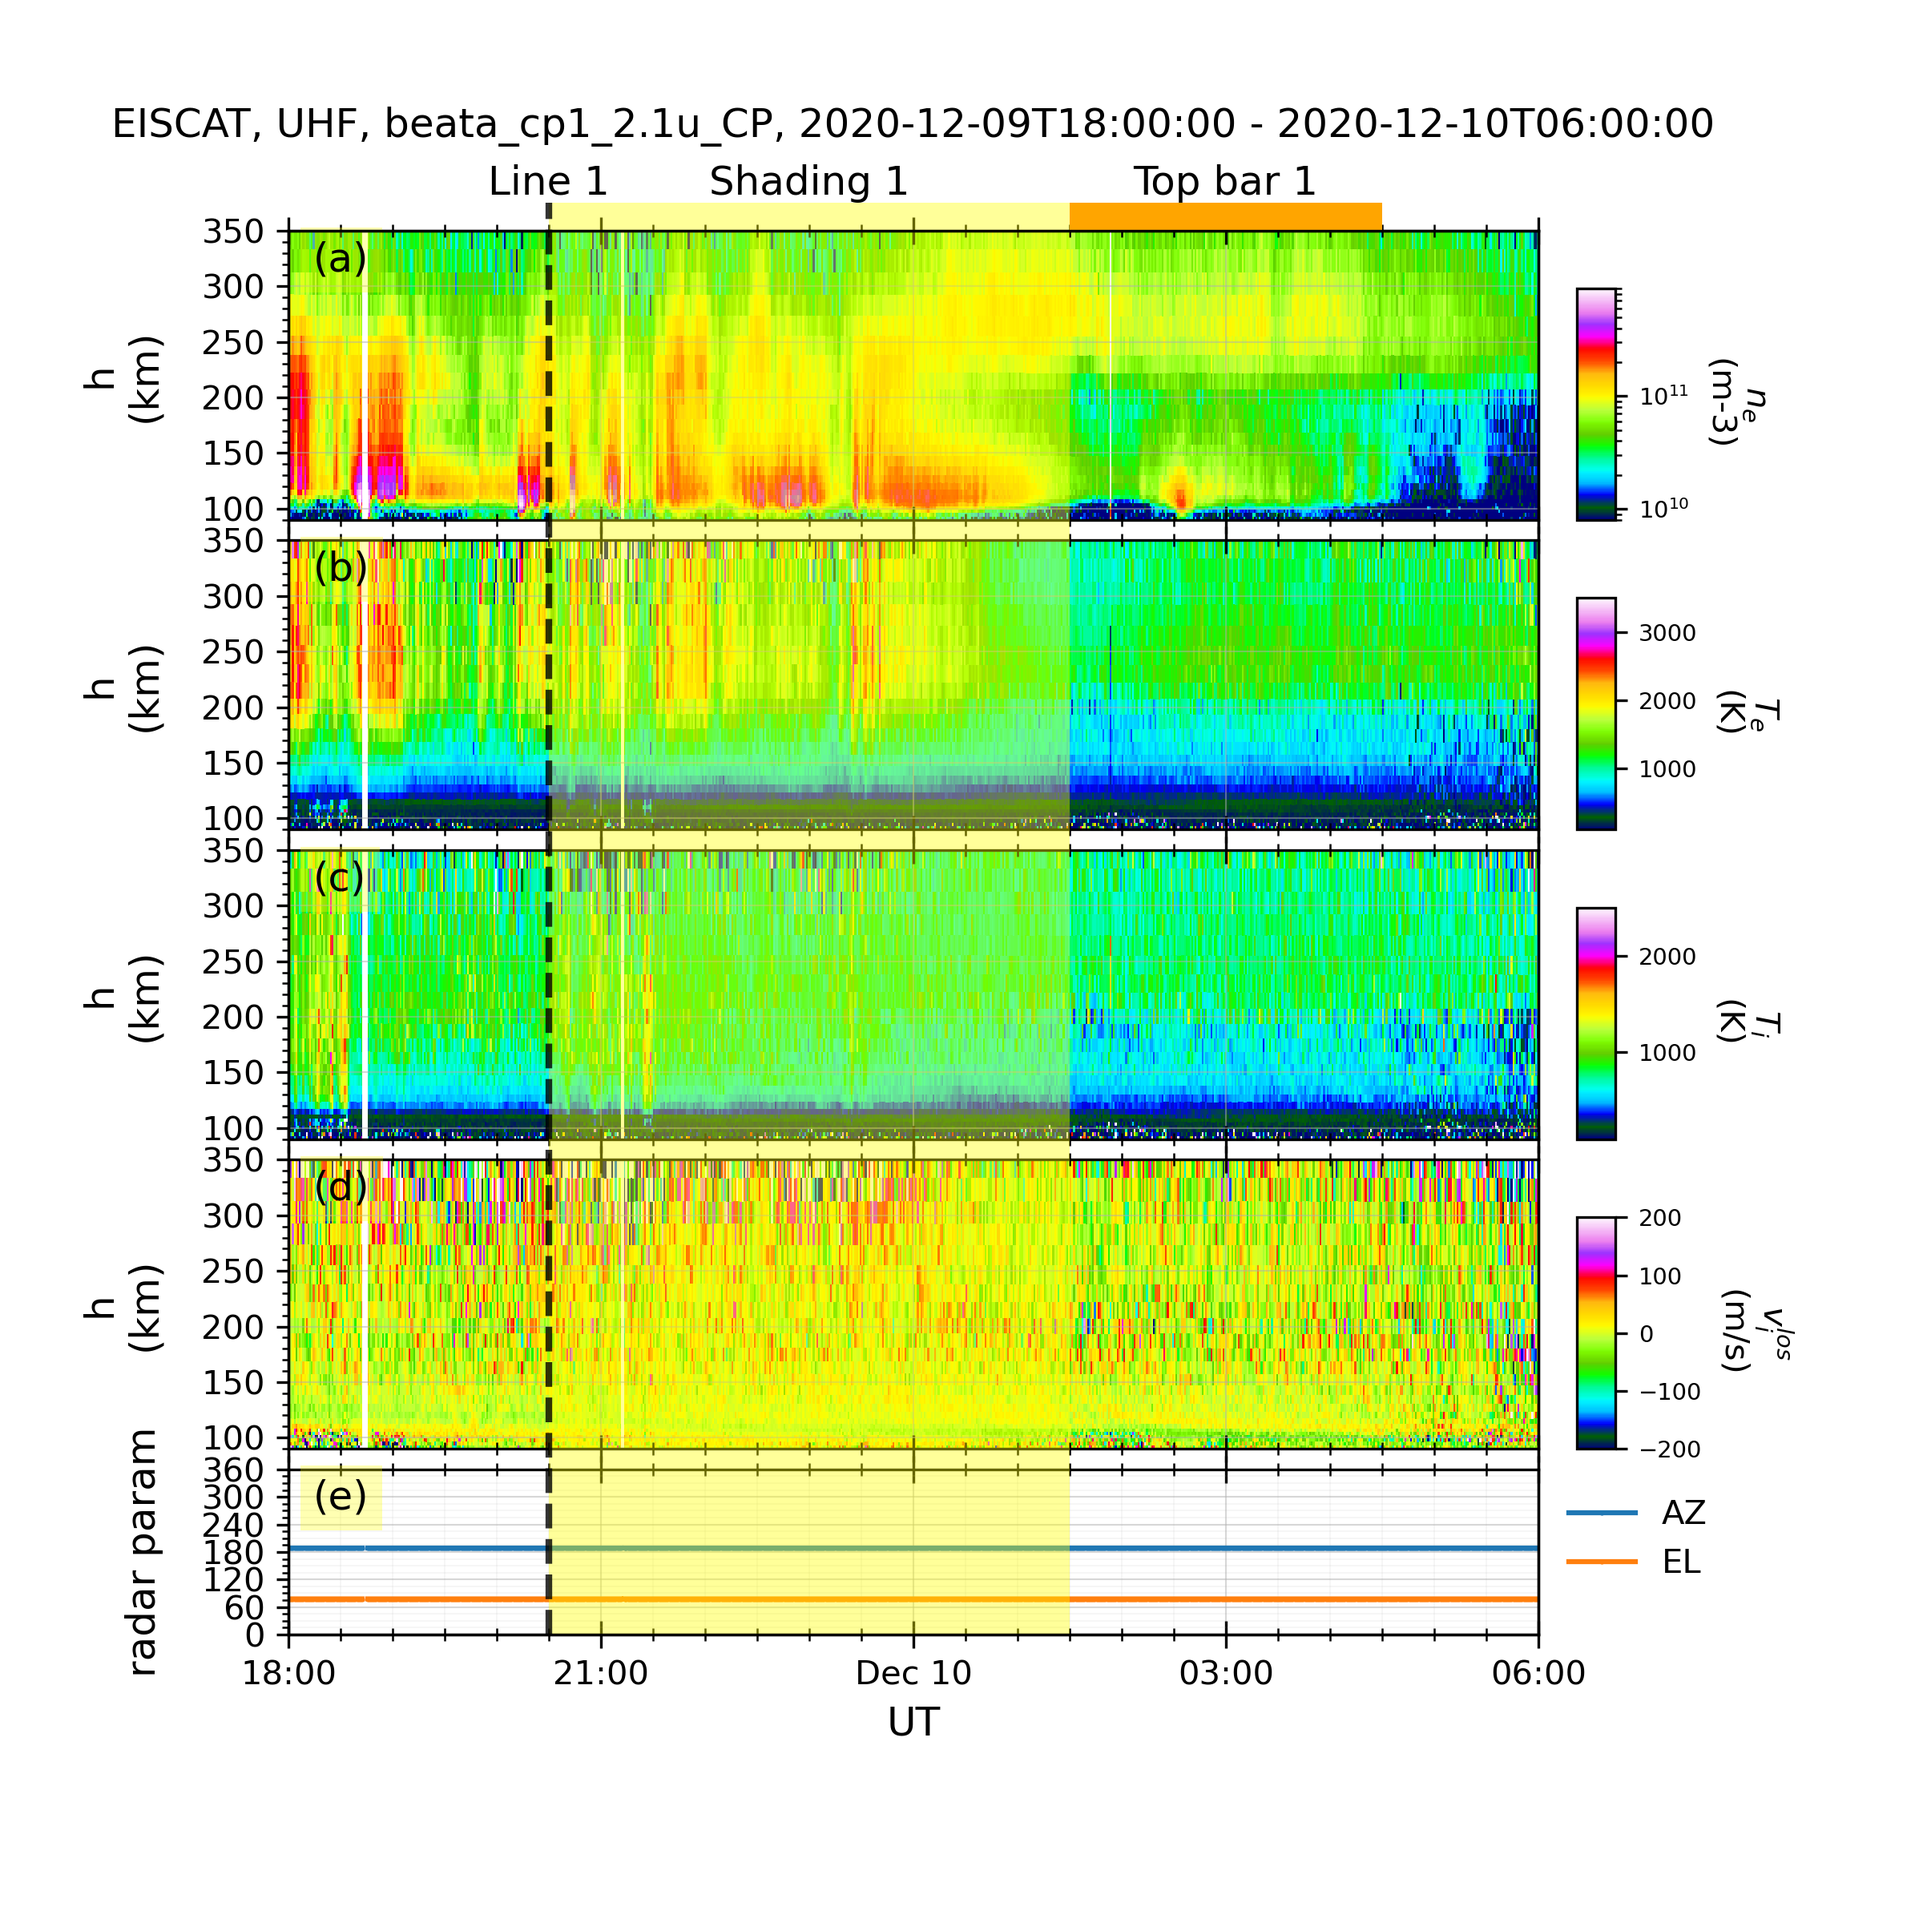
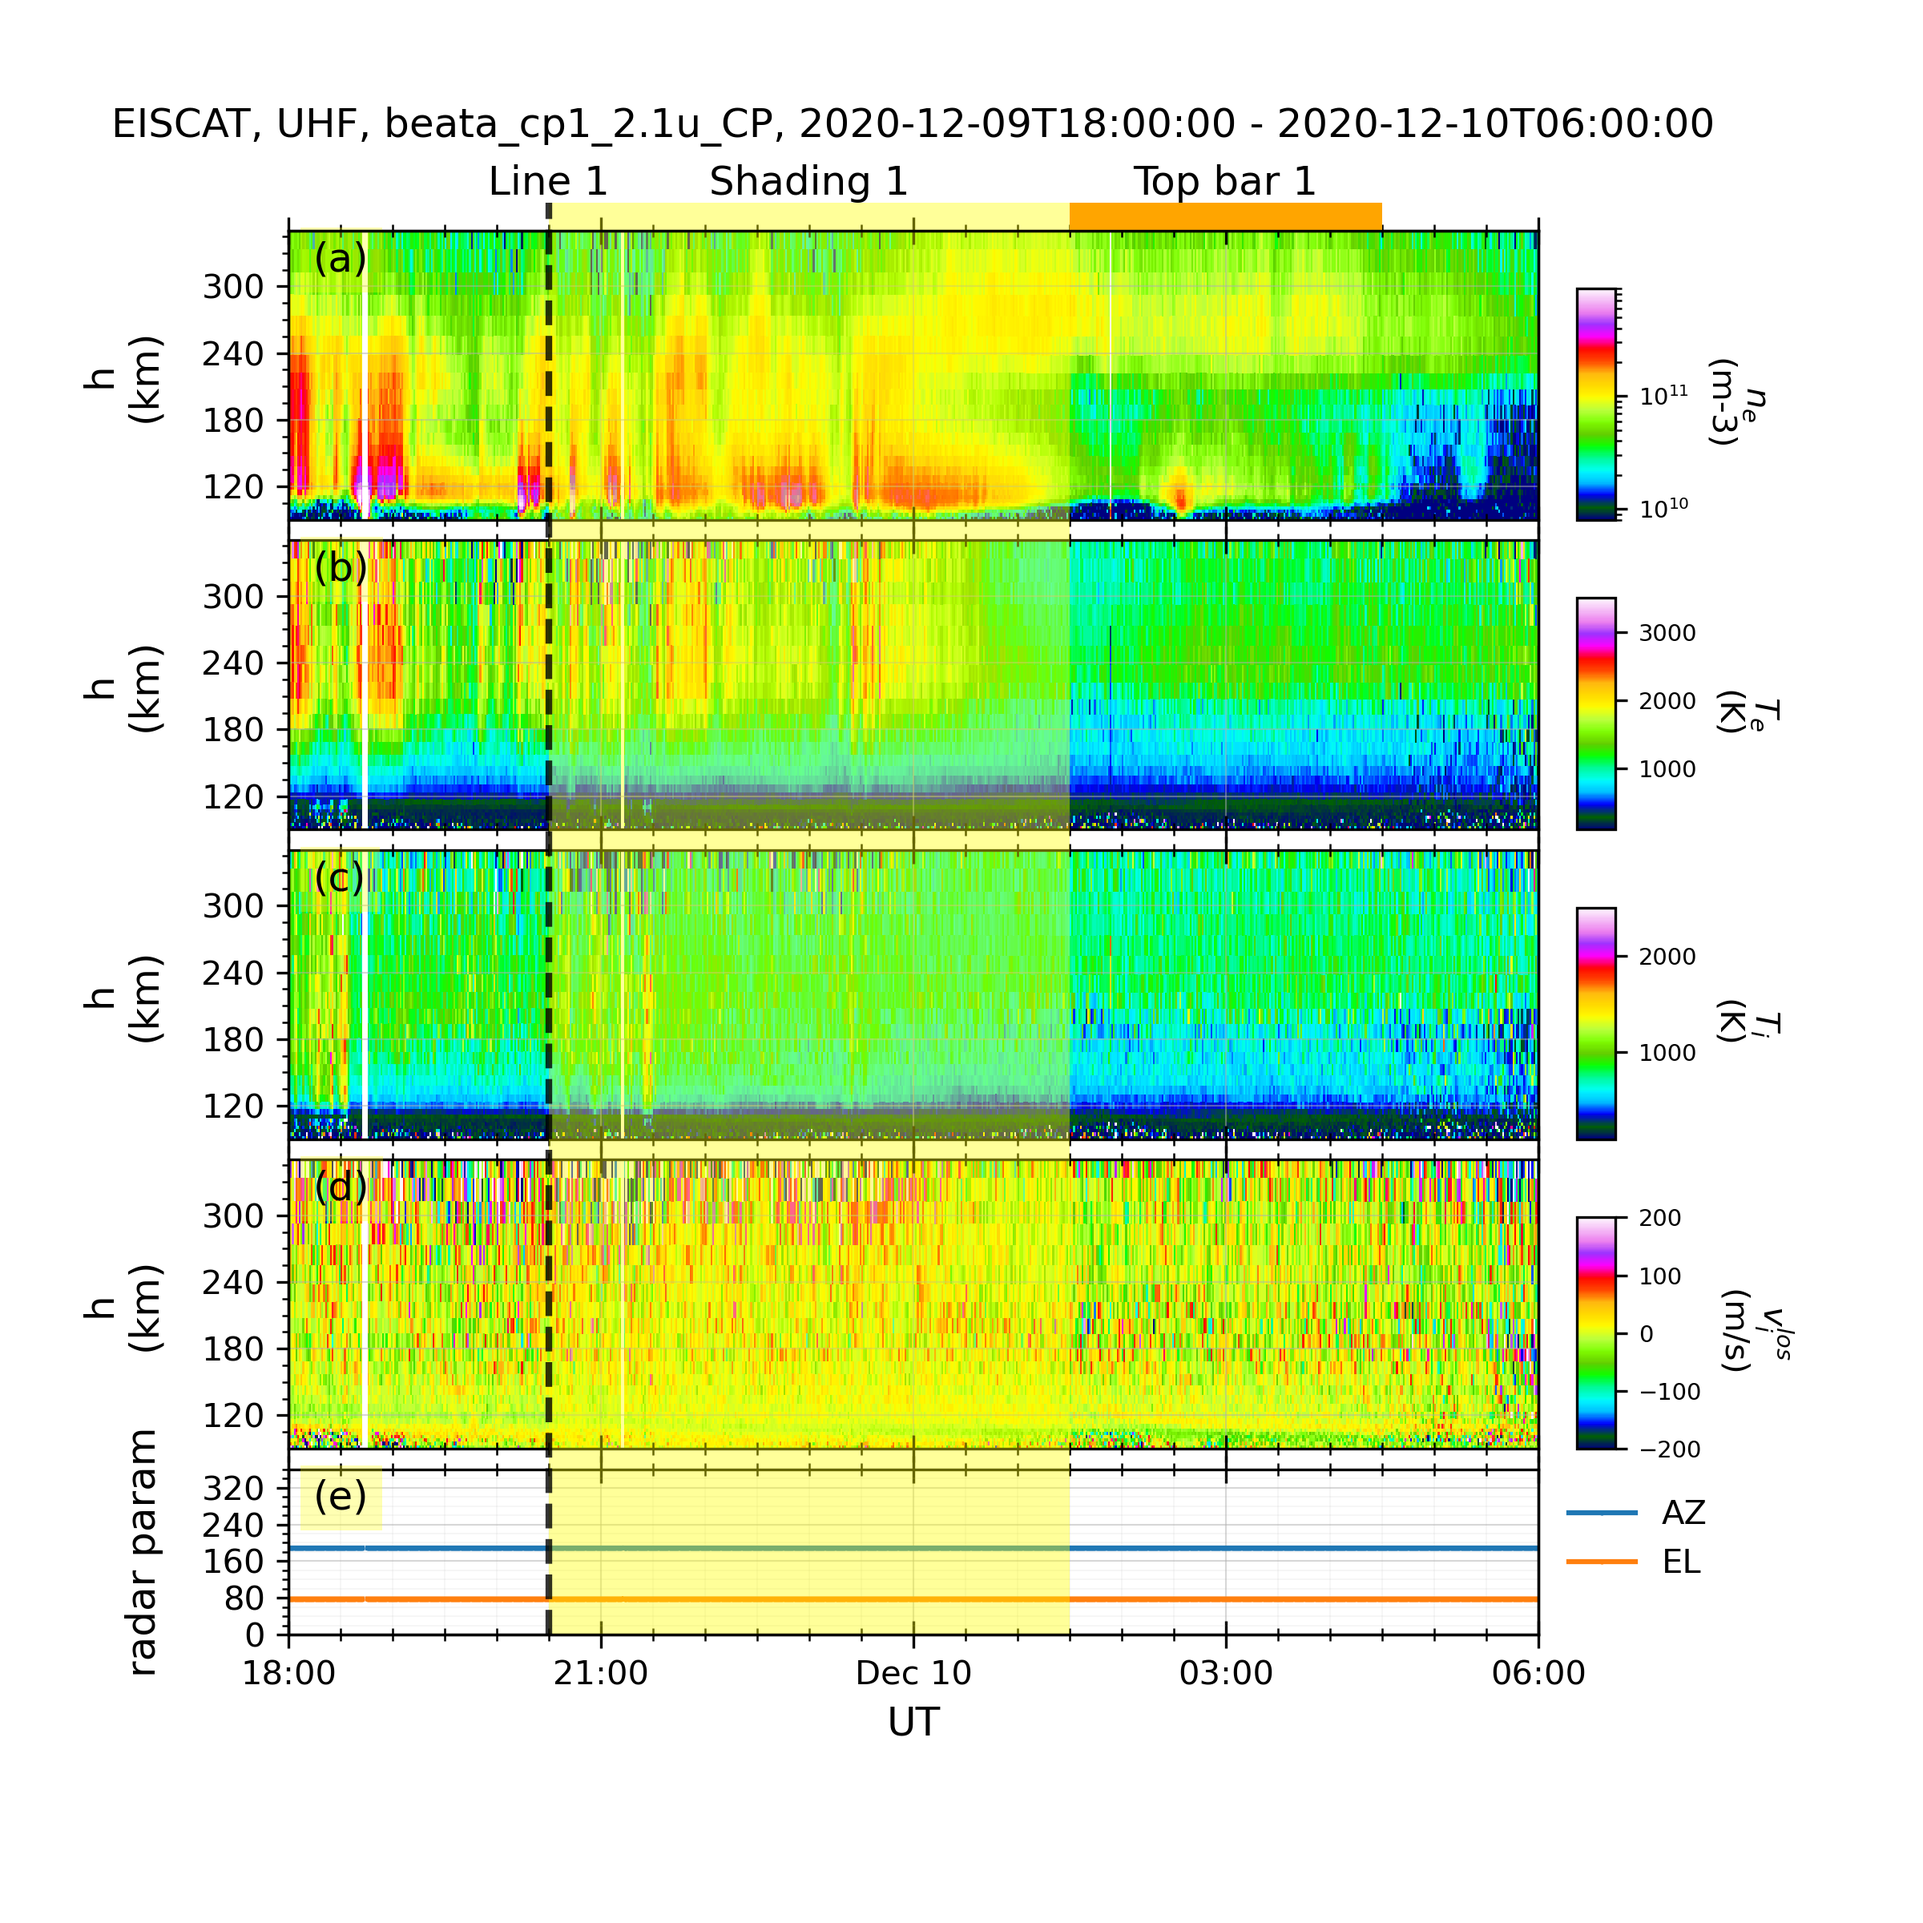
update for tsviewer's y axis tick locator

diff --git a/geospacelab/visualization/ts_viewer.py b/geospacelab/visualization/ts_viewer.py
@@ -19,9 +19,11 @@ import geospacelab.toolbox.utilities.pybasic as basic
 import geospacelab.visualization.mpl_toolbox.axis_ticks as ticktool
 
 
-# plt.style.use('ggplot')
-
-# plt.rcParams['font.family'] = 'serif' 
+# plt.style.use('seaborn-dark-palette')
+plt.style.use('fast')
+# plt.style.use('dark_background')    # nice for line plots
+# plt.style.use('bmh')
+# plt.rcParams['font.family'] = 'serif'
 plt.rcParams['font.serif'] = 'Ubuntu'
 plt.rcParams['font.monospace'] = 'Ubuntu Mono'
 plt.rcParams['font.size'] = 10
@@ -368,14 +370,18 @@ class TimeSeriesViewer(DataHub, dashboard.Dashboard):
             major_max = var_for_config.visual.axis[1].major_tick_max
             minor_max = var_for_config.visual.axis[1].minor_tick_max
             ax.yaxis.set_major_locator(mpl.ticker.MaxNLocator(major_max))
-            ax.yaxis.set_minor_locator(mpl.ticker.MaxNLocator(minor_max))
+            if minor_max is None:
+                ax.yaxis.set_minor_locator(mpl.ticker.AutoMinorLocator())
+            else:
+                ax.yaxis.set_minor_locator(mpl.ticker.MaxNLocator(minor_max))
+
         if yscale == 'log':
             locmin = mpl.ticker.LogLocator(base=10.0,
                                            subs=(0.1, 0.2, 0.3, 0.4, 0.5, 0.6, 0.7, 0.8, 0.9),
                                            numticks=12
                                            )
             ax.yaxis.set_minor_locator(locmin)
-            ax.xaxis.set_minor_formatter(mpl.ticker.NullFormatter())
+            # ax.yaxis.set_minor_formatter(mpl.ticker.NullFormatter())
         ax.set_ylim(ylim)
 
     def _set_xaxis(self, ax, var_for_config, bottom=False):

diff --git a/geospacelab/datahub/variable_base.py b/geospacelab/datahub/variable_base.py
@@ -421,7 +421,7 @@ class VisualAxis(object):
         self.tick_labels = None
         self.minor_ticks = None
         self.major_tick_max = 6
-        self.minor_tick_max = 30
+        self.minor_tick_max = None
         self.visible = True
 
     def config(self, logging=True, **kwargs):
